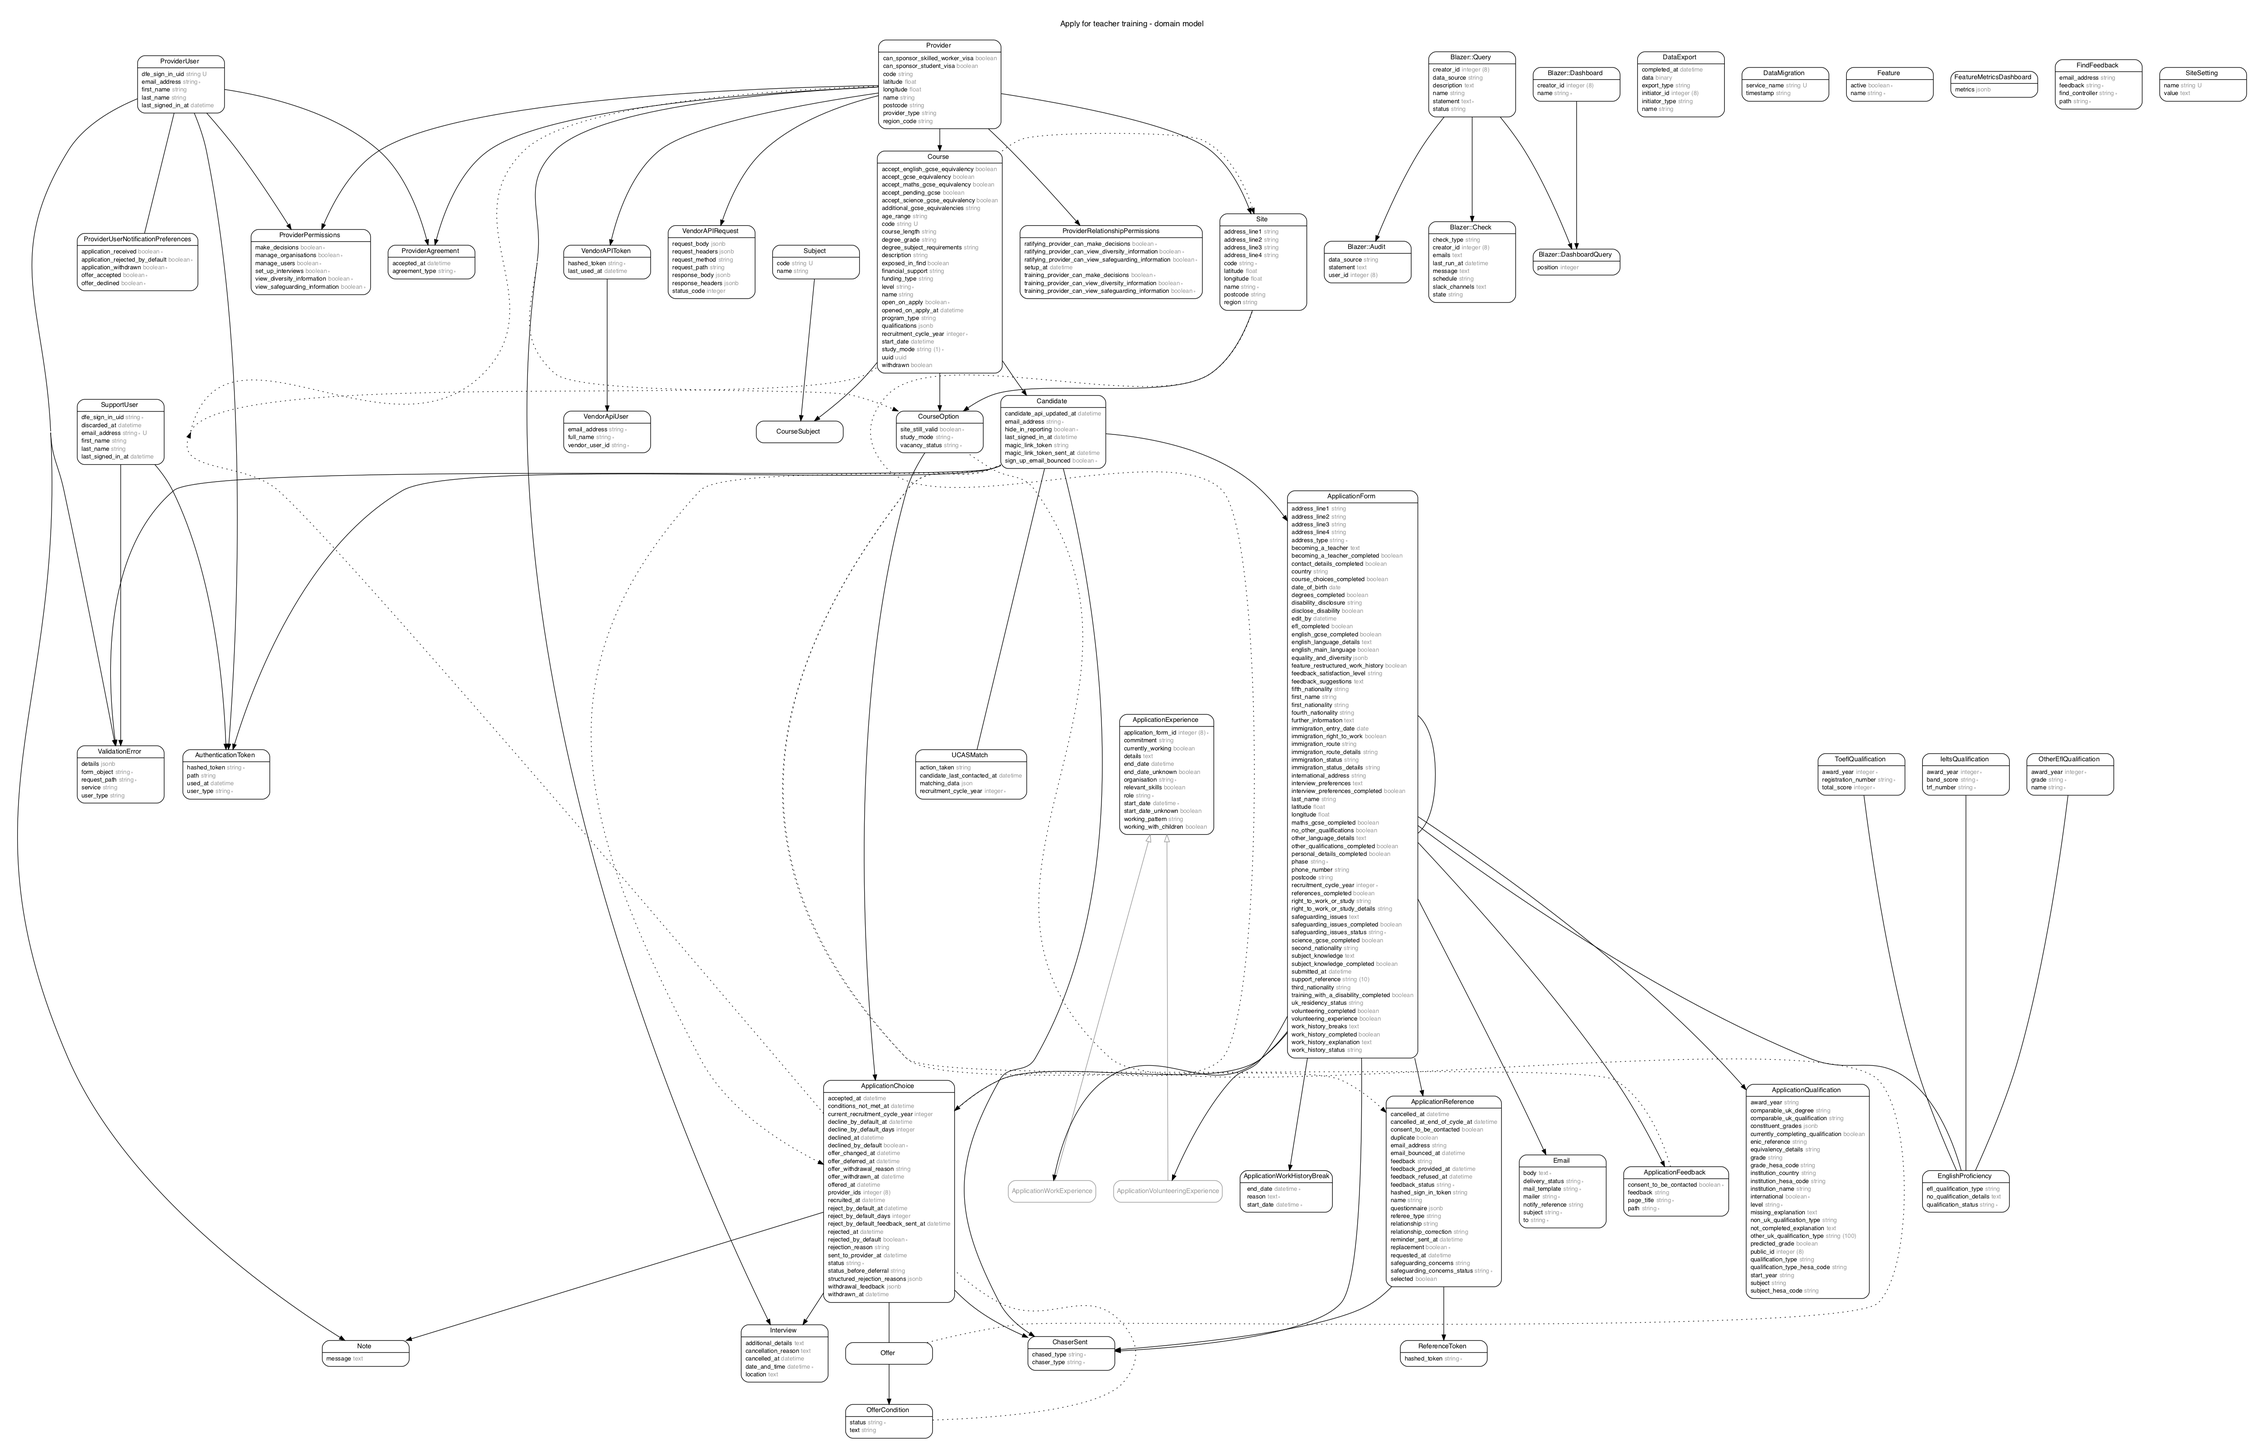
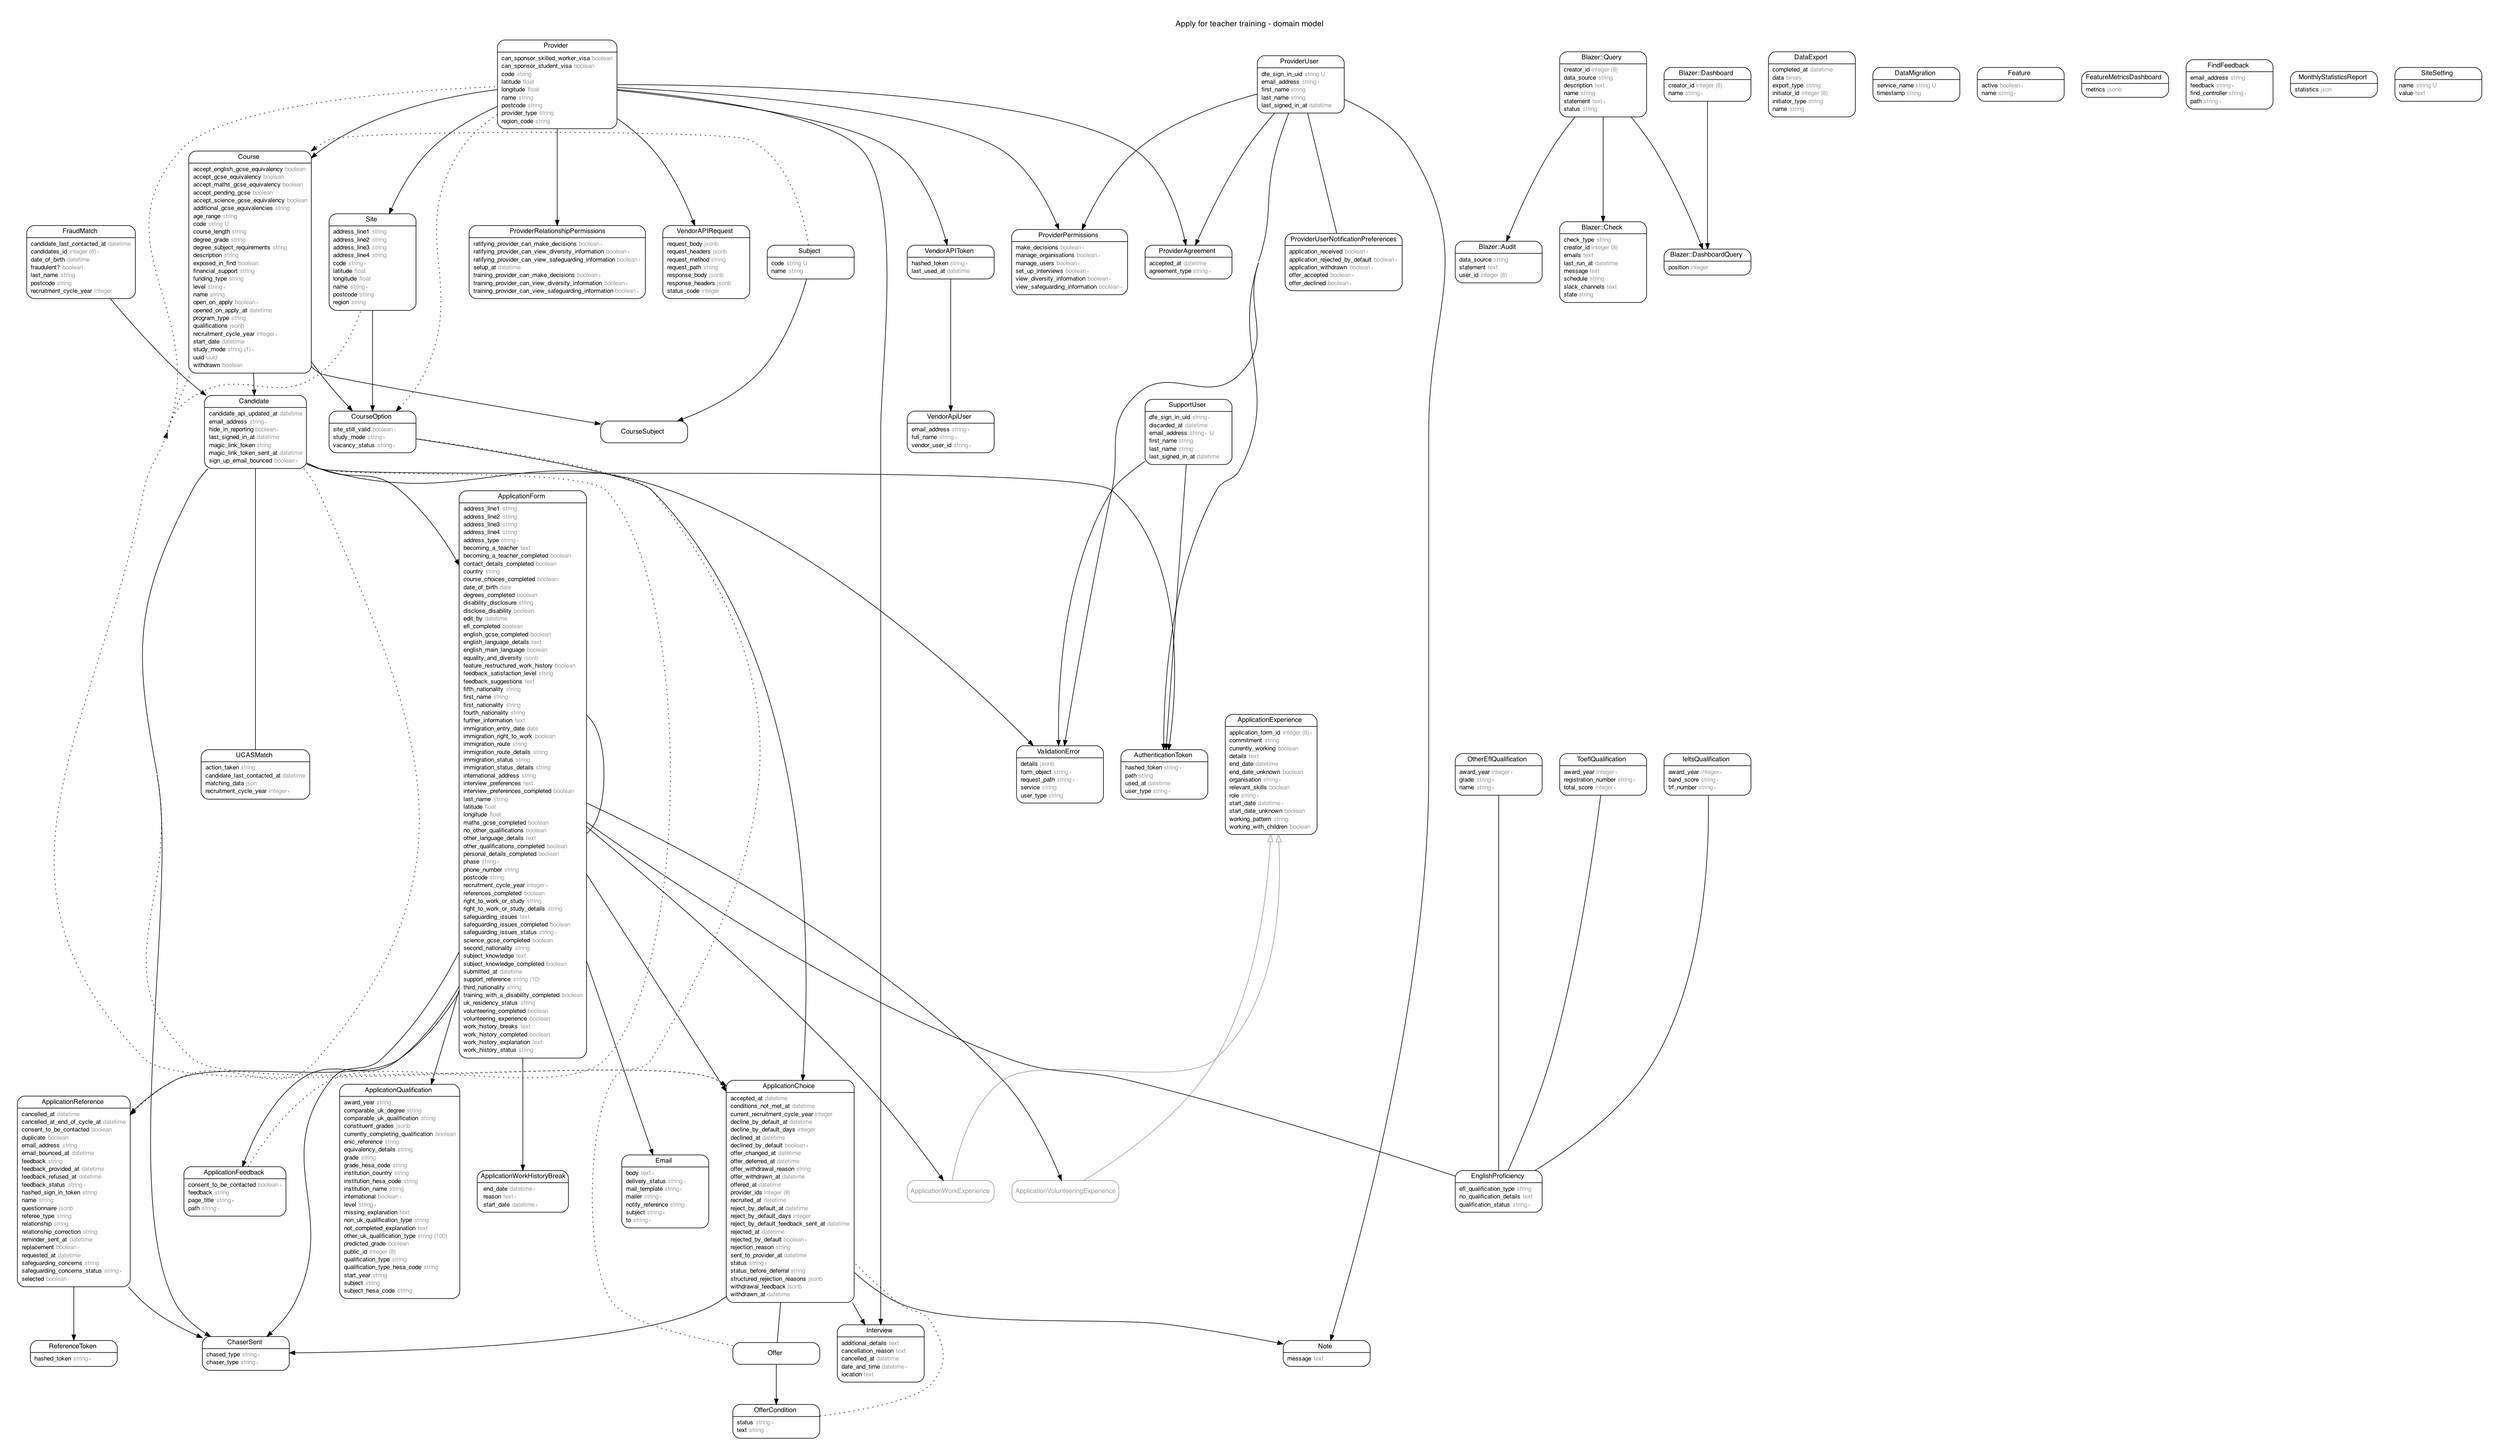
Create Fraud Matches table and models
Intial data model structure for candidate matching service

diff --git a/db/schema.rb b/db/schema.rb
@@ -10,7 +10,7 @@
 #
 # It's strongly recommended that you check this file into your version control system.
 
-ActiveRecord::Schema.define(version: 2021_09_15_095847) do
+ActiveRecord::Schema.define(version: 2021_09_17_153948) do
 
   create_sequence "application_choices_id_seq"
   create_sequence "application_experiences_id_seq"
@@ -510,6 +510,19 @@ ActiveRecord::Schema.define(version: 2021_09_15_095847) do
     t.datetime "updated_at", precision: 6, null: false
   end
 
+  create_table "fraud_matches", force: :cascade do |t|
+    t.bigint "candidates_id", null: false
+    t.datetime "candidate_last_contacted_at"
+    t.integer "recruitment_cycle_year"
+    t.string "last_name"
+    t.datetime "date_of_birth"
+    t.string "postcode"
+    t.boolean "fraudulent?"
+    t.datetime "created_at", precision: 6, null: false
+    t.datetime "updated_at", precision: 6, null: false
+    t.index ["candidates_id"], name: "index_fraud_matches_on_candidates_id"
+  end
+
   create_table "ielts_qualifications", force: :cascade do |t|
     t.string "trf_number", null: false
     t.string "band_score", null: false
@@ -819,6 +832,7 @@ ActiveRecord::Schema.define(version: 2021_09_15_095847) do
   add_foreign_key "course_subjects", "subjects"
   add_foreign_key "courses", "providers"
   add_foreign_key "emails", "application_forms", on_delete: :cascade
+  add_foreign_key "fraud_matches", "candidates", column: "candidates_id"
   add_foreign_key "interviews", "application_choices", on_delete: :cascade
   add_foreign_key "interviews", "providers", on_delete: :cascade
   add_foreign_key "notes", "application_choices", on_delete: :cascade

diff --git a/db/migrate/20210917153948_create_fraud_matches.rb b/db/migrate/20210917153948_create_fraud_matches.rb
@@ -1,0 +1,15 @@
+class CreateFraudMatches < ActiveRecord::Migration[6.1]
+  def change
+    create_table :fraud_matches do |t|
+      t.references :candidates, null: false, foreign_key: true
+      t.datetime :candidate_last_contacted_at
+      t.integer :recruitment_cycle_year
+      t.string :last_name
+      t.datetime :date_of_birth
+      t.string :postcode
+      t.boolean :fraudulent?
+
+      t.timestamps
+    end
+  end
+end

diff --git a/app/models/candidate.rb b/app/models/candidate.rb
@@ -14,6 +14,7 @@ class Candidate < ApplicationRecord
   has_many :application_choices, through: :application_forms
   has_many :application_references, through: :application_forms
   belongs_to :course_from_find, class_name: 'Course', optional: true
+  belongs_to :fraud_match, optional: true
 
   after_create do
     update!(candidate_api_updated_at: Time.zone.now)

diff --git a/app/models/fraud_match.rb b/app/models/fraud_match.rb
@@ -1,0 +1,5 @@
+class FraudMatch < ApplicationRecord
+  audited
+
+  has_many :candidates
+end
